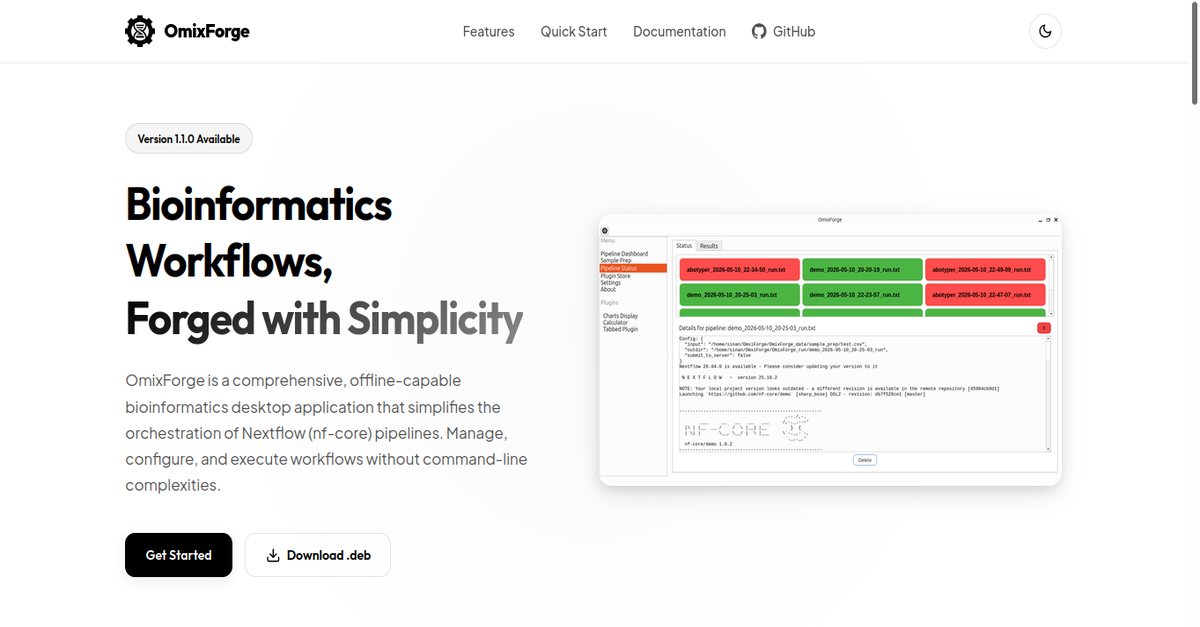
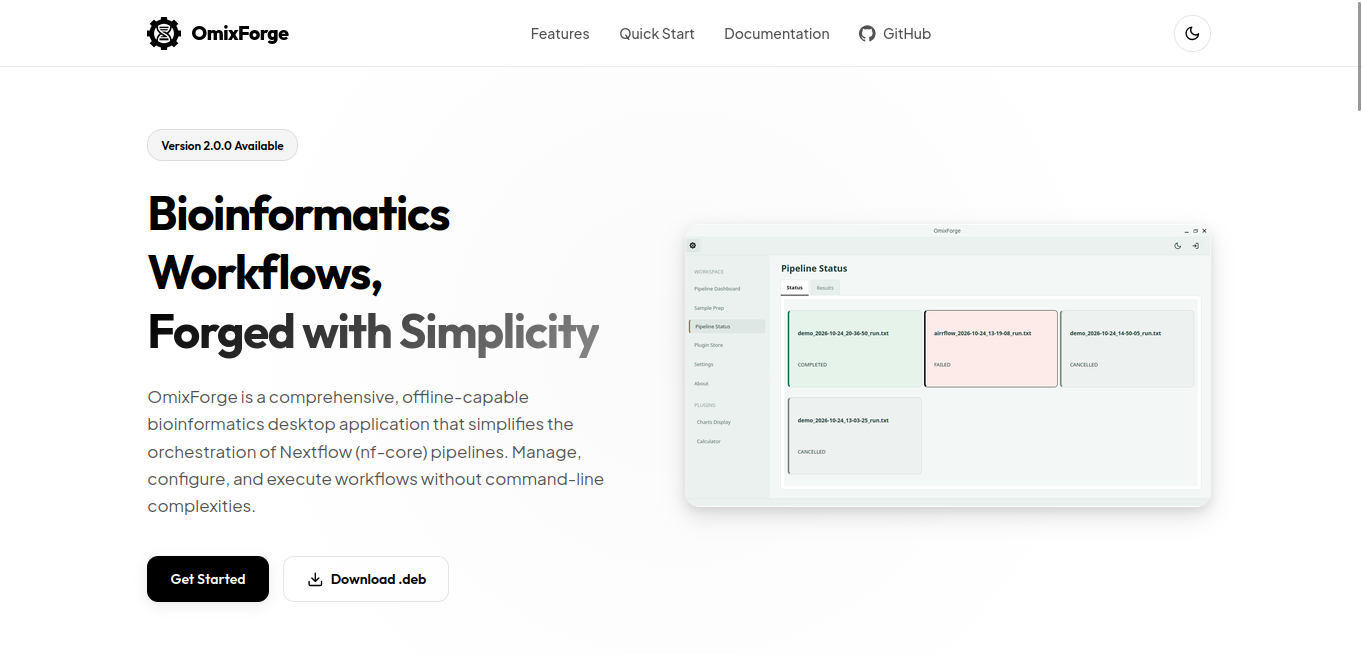
Update version number to 2.0.0 in hero section

diff --git a/index.html b/index.html
@@ -133,7 +133,7 @@
     <section class="hero-section">
         <div class="container hero-container">
             <div class="hero-content">
-                <div class="badge-pill">Version 1.2.0 Available</div>
+                <div class="badge-pill">Version 2.0.0 Available</div>
                 <h1>Bioinformatics Workflows,<br><span class="gradient-text">Forged with Simplicity</span></h1>
                 <p class="hero-description">
                     OmixForge is a comprehensive, offline-capable bioinformatics desktop application that simplifies the orchestration of Nextflow (nf-core) pipelines. Manage, configure, and execute workflows without command-line complexities.
